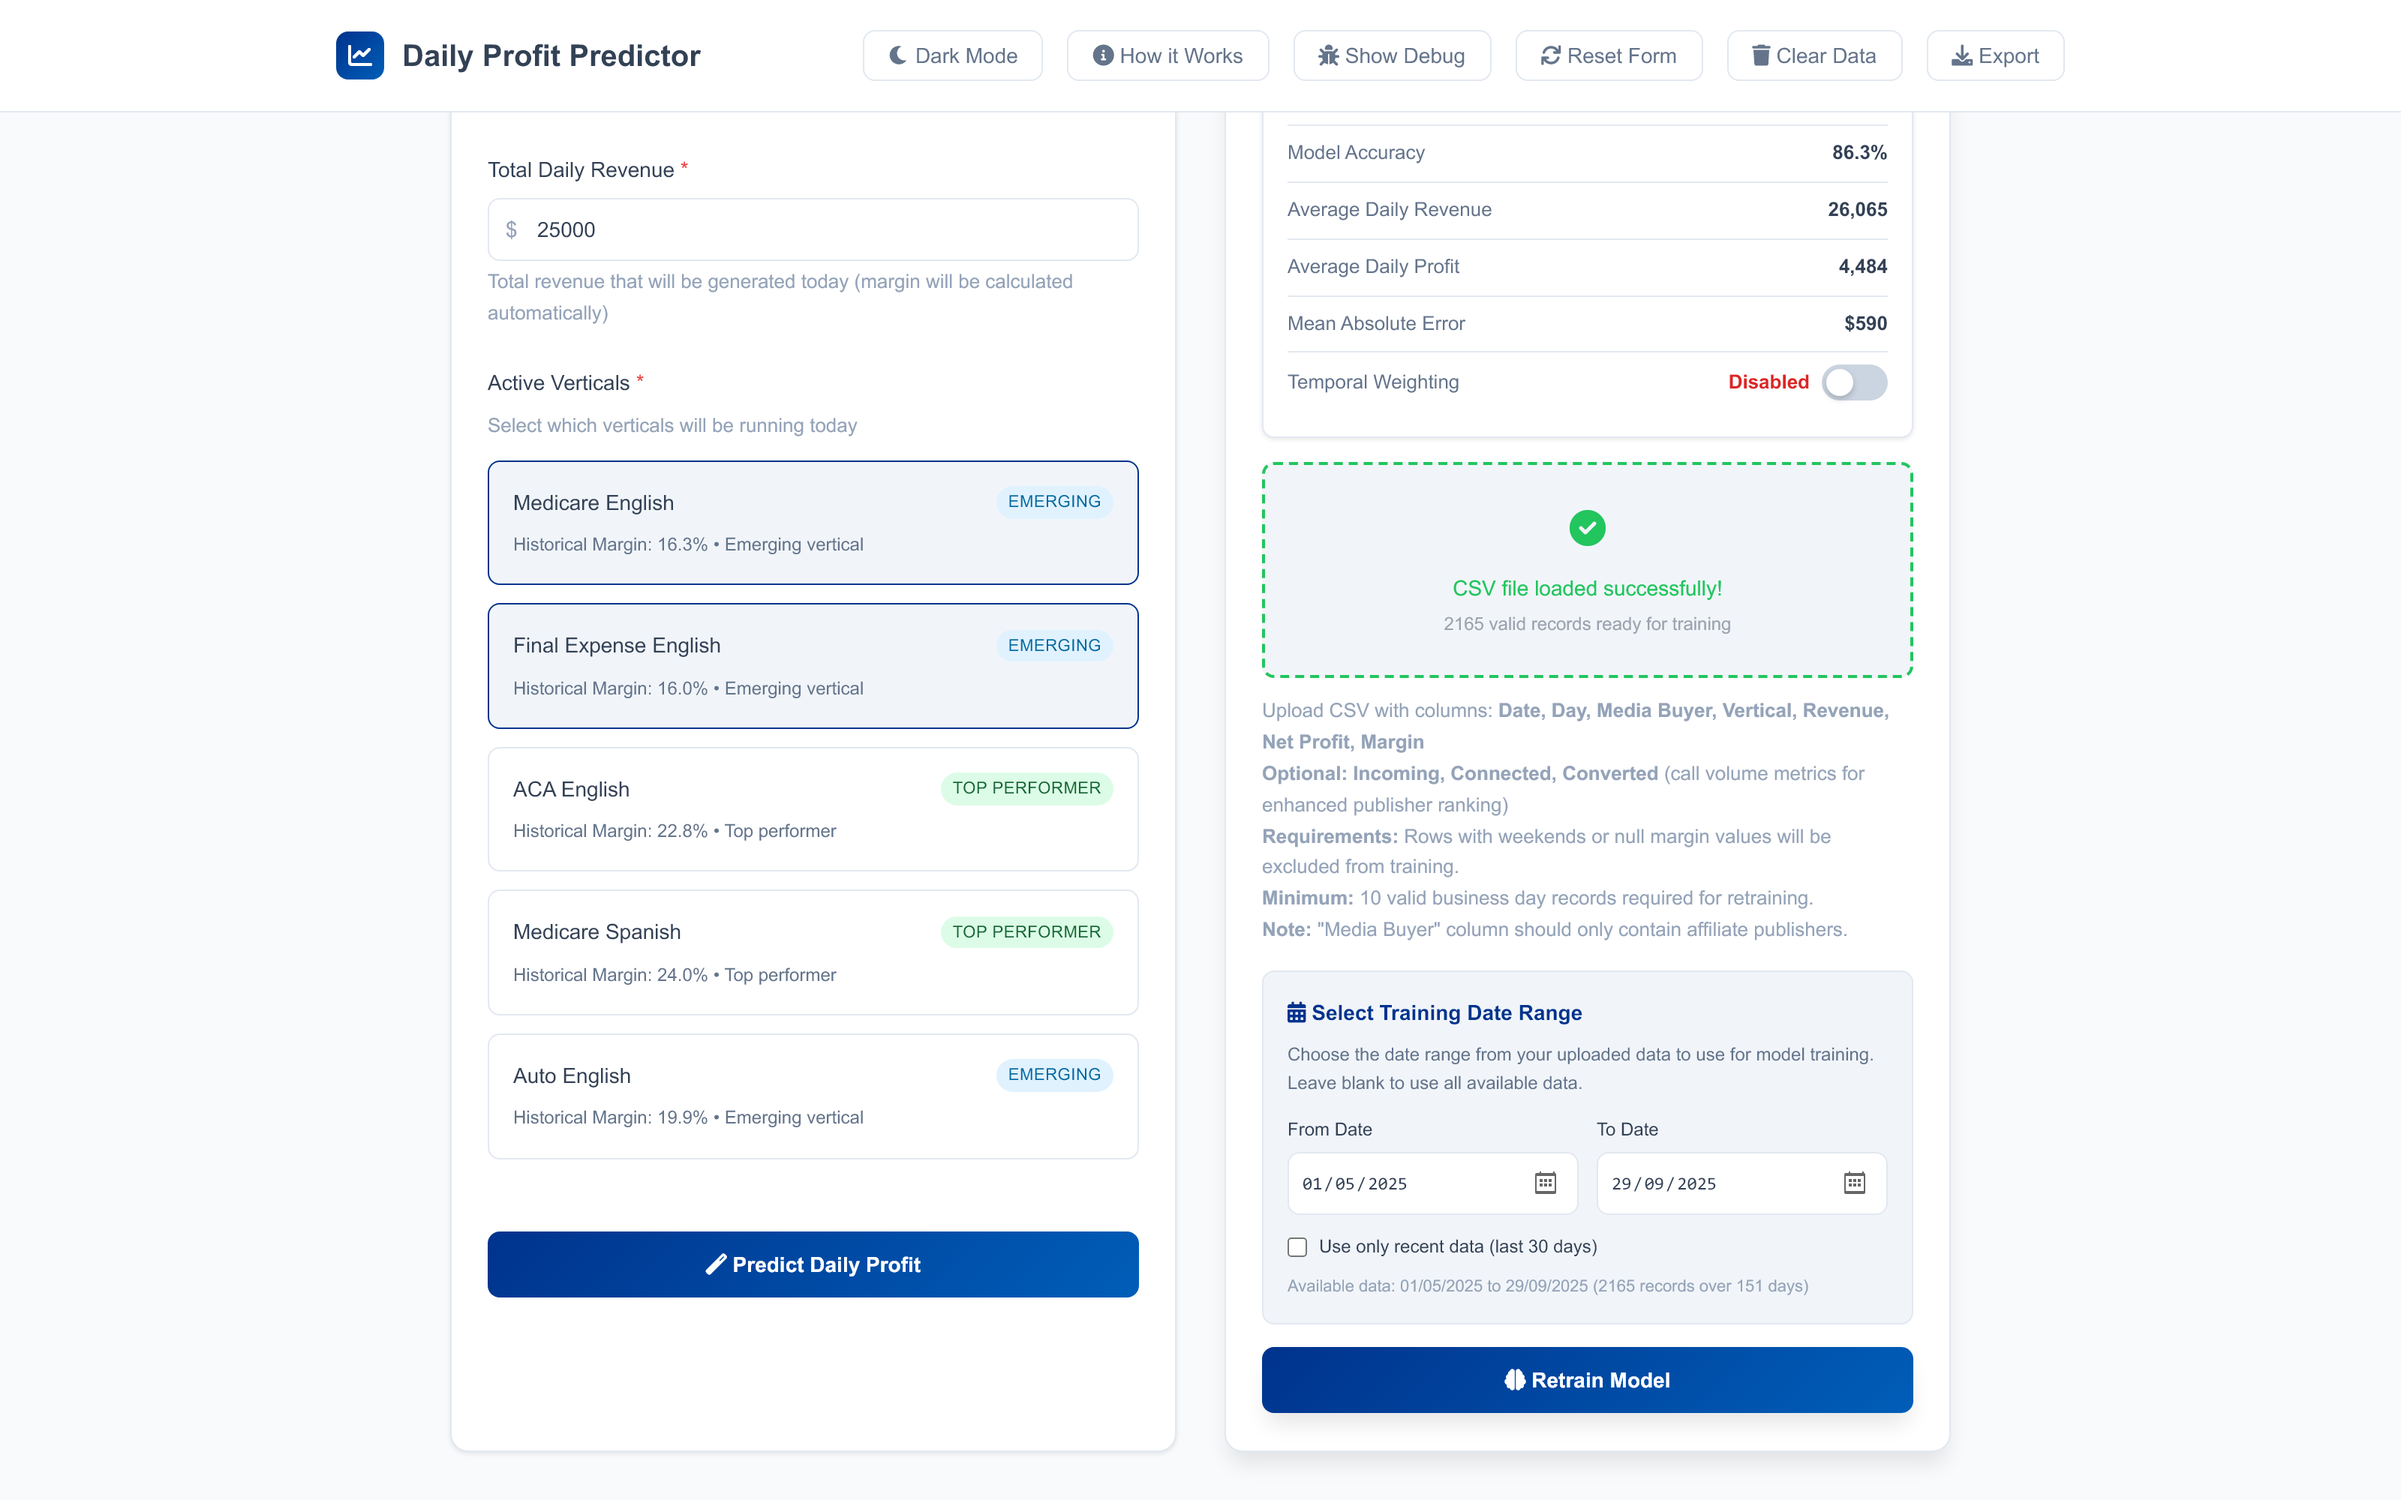
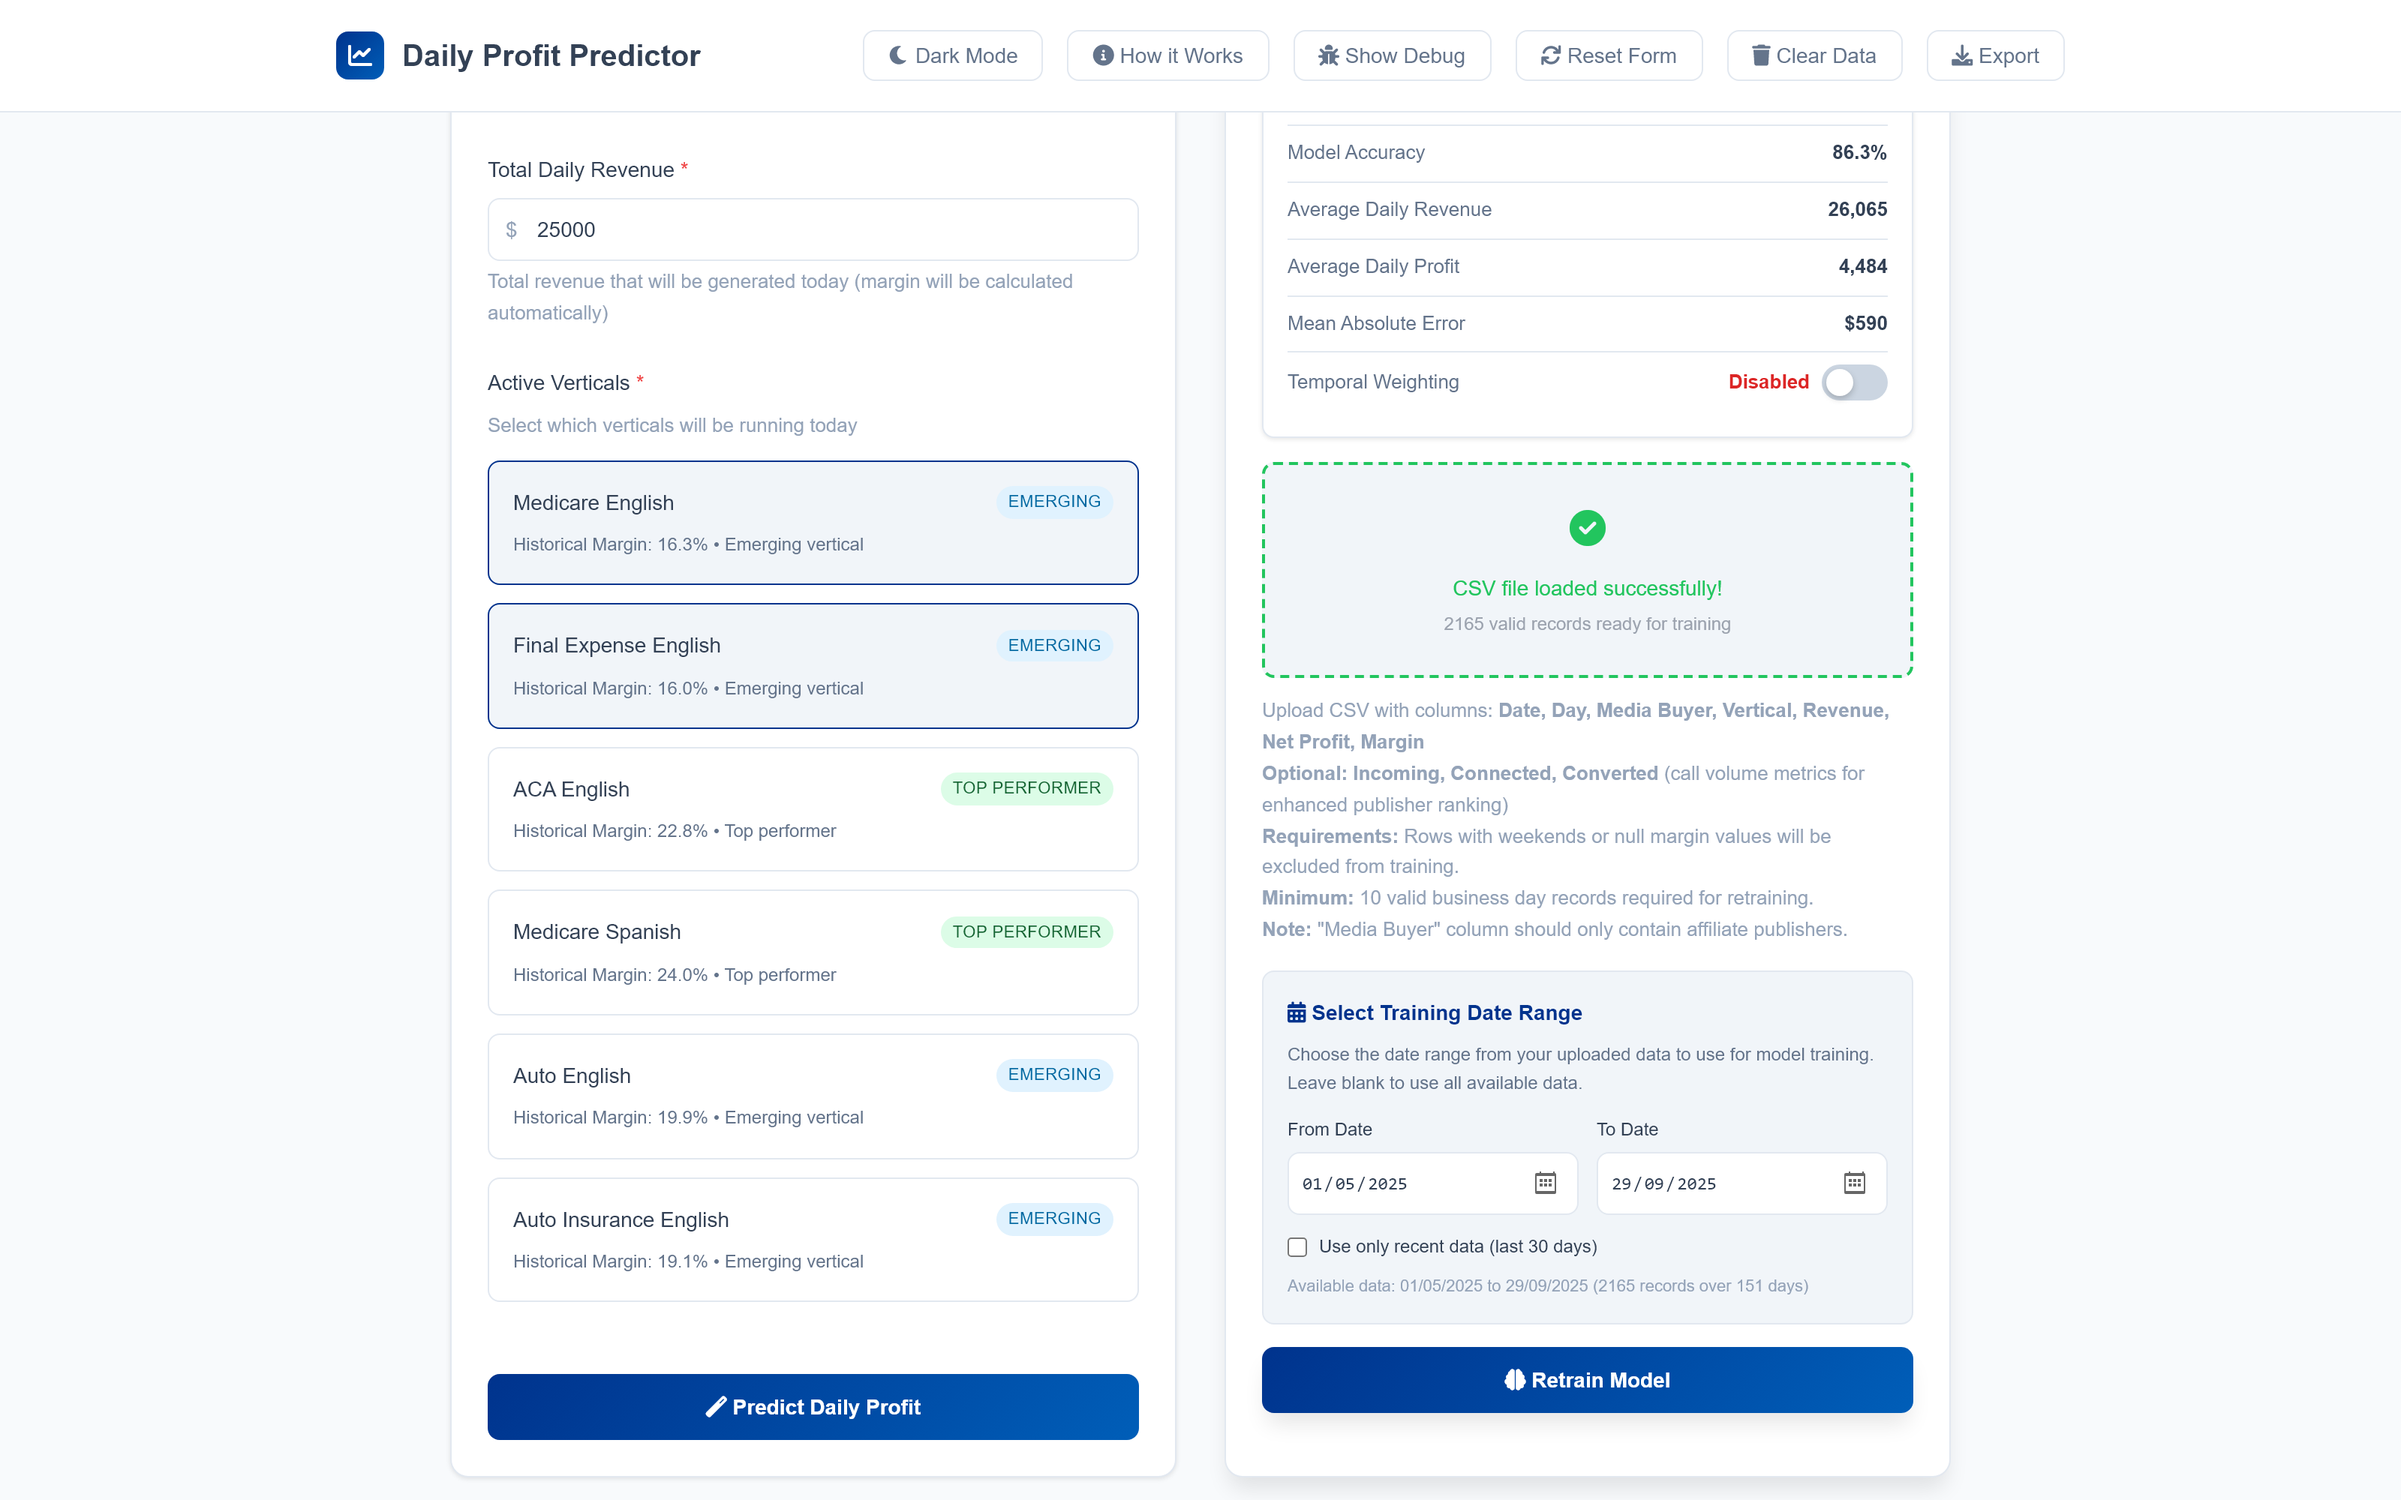
Separate the two auto verticals and preload the sample dataset
AUTO ENGLISH and AUTO INSURANCE ENGLISH are distinct verticals in the
data but shared the vertical_auto checkbox. Since the checkbox value
was "AUTO ENGLISH", AUTO INSURANCE ENGLISH could never be selected: its
rows trained the model but were unreachable from the UI, and whichever
mapping wrote last won the label. Give it its own card and element id,
and register both verticals in the mapping and default tables.

Load Data/sample_publisher_data.csv on startup so the app opens with a
trained model rather than an empty state. handleCSVData only ingests
rows, so the publisher ranking and day-of-week analytics stayed empty
and View Analytics rendered nothing; call retrainModel as well. The
retrain confirmation modal is suppressed for this path, since it
confirms a user action and blocked the UI on page load.

The fetch is skipped on file:// where it would be blocked, leaving the
manual upload flow intact. Verified over HTTP: 2,165 records, 10 ranked
publishers, analytics populated, no console errors.

Changed region(s): [[0.1875, 0.775, 0.5, 0.868], [0.1875, 0.899, 0.5, 0.961], [0.5312, 0.961, 0.8125, 0.992]]

diff --git a/index.html b/index.html
@@ -1779,6 +1779,15 @@
                                         </div>
                                         <div class="vertical-stats">Historical Margin: 0.0% (No Data) • No revenue data</div>
                                     </label>
+
+                                    <label class="vertical-option" for="vertical_auto_insurance">
+                                        <input type="checkbox" value="AUTO INSURANCE ENGLISH" id="vertical_auto_insurance" onchange="handleVerticalChange(event)">
+                                        <div class="vertical-header">
+                                            <span class="vertical-name">Auto Insurance English</span>
+                                            <span class="vertical-badge badge-secondary">No Data</span>
+                                        </div>
+                                        <div class="vertical-stats">Historical Margin: 0.0% (No Data) • No revenue data</div>
+                                    </label>
                                 </div>
                             </div>
                             
@@ -1985,6 +1994,7 @@
                         'FINAL EXPENSE ENGLISH': 0.216, // 21.6% - Solid performer  
                         'ACA ENGLISH': 0.244,           // 24.4% - Seasonal strength
                         'MEDICARE SPANISH': 0.245,      // 24.5% - Growing segment
+                        'AUTO ENGLISH': 0.0,            // 0.0% - No revenue data
                         'AUTO INSURANCE ENGLISH': 0.0   // 0.0% - No revenue data
                     },
                     
@@ -6545,7 +6555,8 @@
                     'FINAL EXPENSE ENGLISH': 'vertical_final_expense', 
                     'ACA ENGLISH': 'vertical_aca',
                     'MEDICARE SPANISH': 'vertical_medicare_es',
-                    'AUTO INSURANCE ENGLISH': 'vertical_auto'
+                    'AUTO ENGLISH': 'vertical_auto',
+                    'AUTO INSURANCE ENGLISH': 'vertical_auto_insurance'
                 };
                 
                 Object.keys(verticalElements).forEach(vertical => {
@@ -6673,11 +6684,10 @@
                             name: 'Medicare Spanish'
                         },
                         'AUTO INSURANCE ENGLISH': {
-                            elementId: 'vertical_auto',
+                            elementId: 'vertical_auto_insurance',
                             statsSelector: '.vertical-stats',
-                            name: 'Auto English'
+                            name: 'Auto Insurance English'
                         },
-                        // Alternative mapping for AUTO ENGLISH (same UI element as AUTO INSURANCE ENGLISH)
                         'AUTO ENGLISH': {
                             elementId: 'vertical_auto',
                             statsSelector: '.vertical-stats',
@@ -7523,6 +7533,7 @@
                 'FINAL EXPENSE ENGLISH': 0.216,
                 'ACA ENGLISH': 0.244,
                 'MEDICARE SPANISH': 0.245,
+                'AUTO ENGLISH': 0.0,
                 'AUTO INSURANCE ENGLISH': 0.0
             };
             
@@ -7548,6 +7559,12 @@
         
         
         function showRetrainSuccess() {
+            // The automatic sample-data load trains the model without the user asking,
+            // so it suppresses this confirmation. One-shot: cleared on read.
+            if (window.suppressRetrainModal) {
+                window.suppressRetrainModal = false;
+                return;
+            }
             const modal = document.getElementById('retrain-success-modal');
             modal.style.display = 'flex';
             setTimeout(() => {
@@ -8655,9 +8672,50 @@
                 // Test the system after initialization
                 setTimeout(() => {
                     validateSystem();
+                    loadSampleDataset();
                 }, 500);
             }, 100);
         });
+
+        // Load the bundled sample dataset on first visit so the app opens with a
+        // trained model and populated analytics instead of an empty state. Served
+        // over http(s) only: opening index.html from file:// blocks the fetch, and
+        // the app falls back to its manual-upload state.
+        function loadSampleDataset() {
+            if (!location.protocol.startsWith('http')) {
+                console.log('📁 Sample dataset skipped (file:// — upload a CSV manually)');
+                return;
+            }
+            if (predictor.trainingData && predictor.trainingData.length > 0) {
+                return;
+            }
+
+            Papa.parse('Data/sample_publisher_data.csv', {
+                download: true,
+                header: true,
+                dynamicTyping: true,
+                complete: (results) => {
+                    if (!results.data || results.data.length === 0) {
+                        return;
+                    }
+                    predictor.handleCSVData(results.data, results.meta.fields);
+
+                    // handleCSVData only ingests the rows. Training is what builds the
+                    // publisher ranking and day-of-week analytics, so run it too. The
+                    // success modal is suppressed for this load: it confirms a user
+                    // action, and nobody asked for this one. retrainModel defers its
+                    // work with setTimeout, so the flag is cleared by the modal itself
+                    // rather than immediately after this call.
+                    window.suppressRetrainModal = true;
+                    predictor.retrainModel();
+
+                    showAlert('Loaded the bundled sample dataset. Upload your own CSV to retrain on real numbers.', 'info');
+                },
+                error: (error) => {
+                    console.log('📁 Sample dataset unavailable:', error.message);
+                }
+            });
+        }
     </script>
 </body>
 </html>
